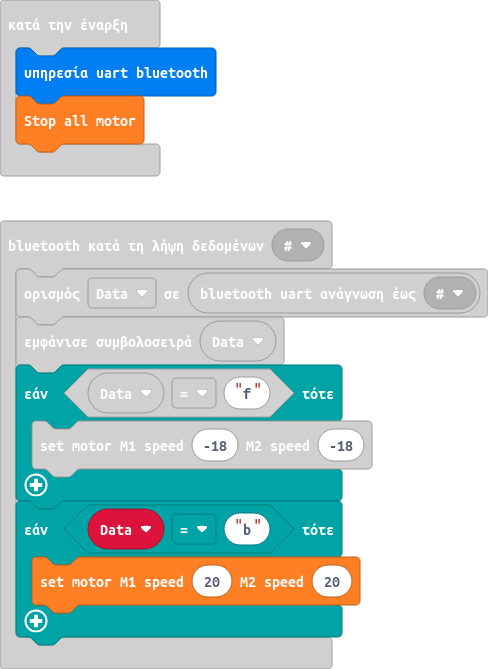
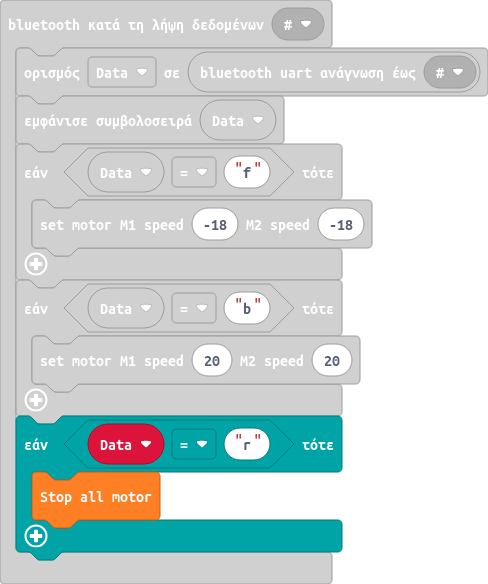
Ενημέρωση main.blocks, main.ts

diff --git a/main.ts b/main.ts
@@ -10,6 +10,9 @@ bluetooth.onUartDataReceived(serial.delimiters(Delimiters.Hash), function () {
     if (Data == "b") {
         wuKong.setAllMotor(20, 20)
     }
+    if (Data == "r") {
+        wuKong.stopAllMotor()
+    }
 })
 let Data = ""
 bluetooth.startUartService()
